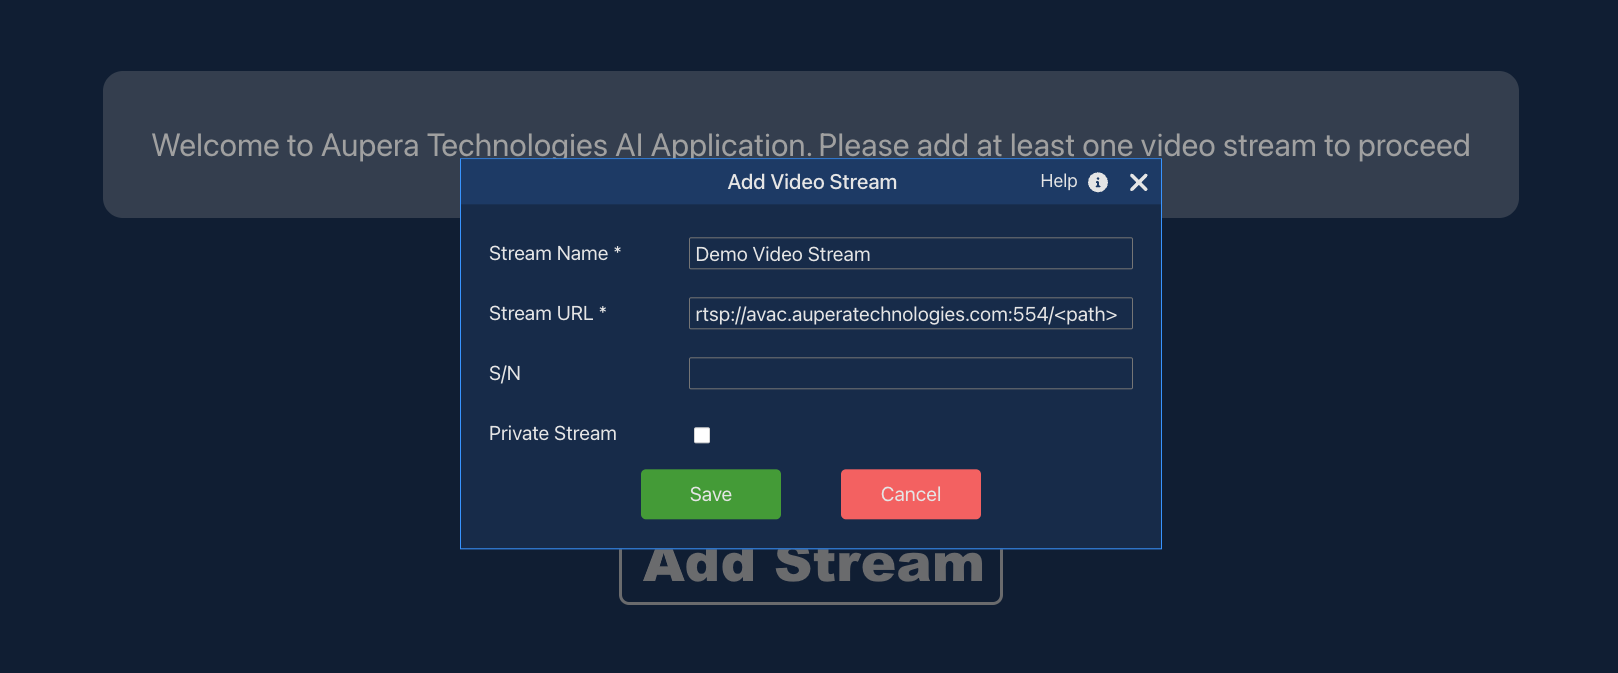
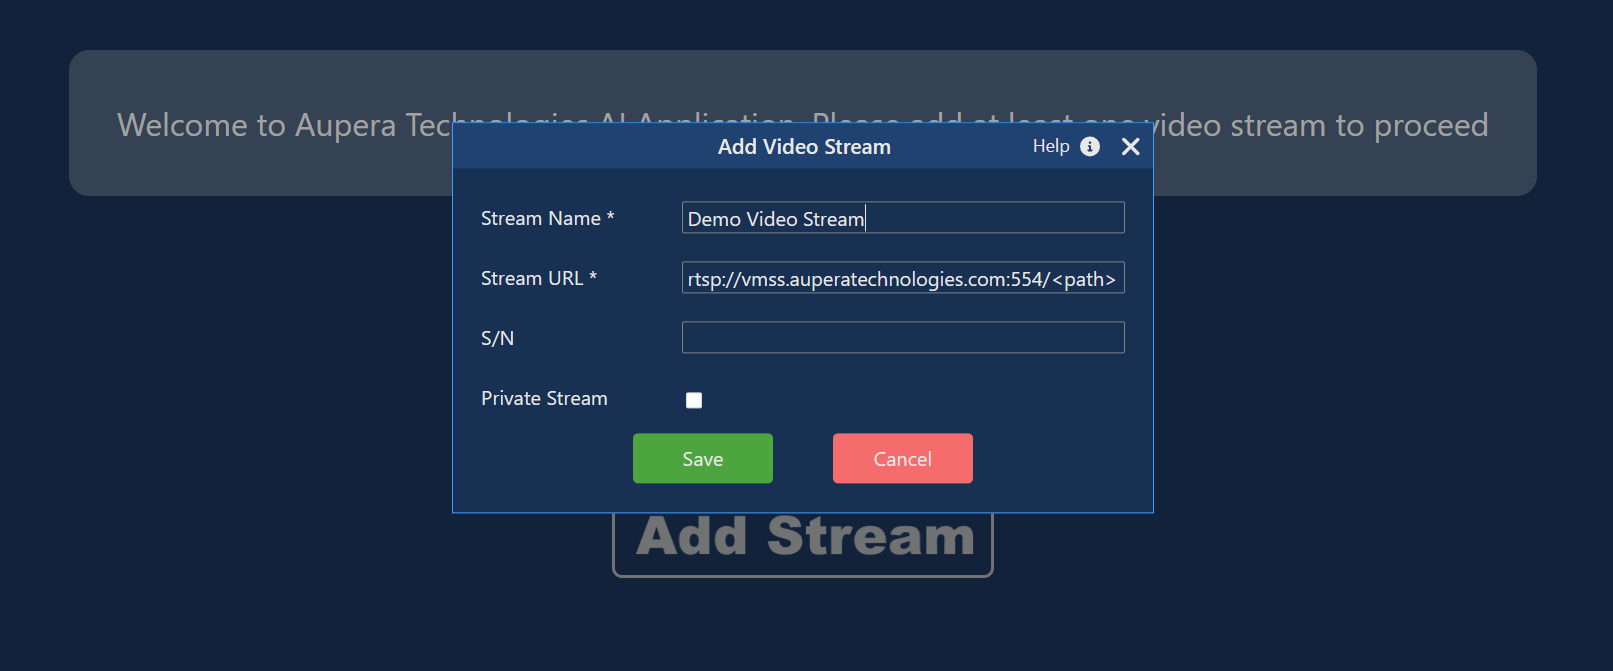
updated according to the comments

Changed region(s): [[0.031, 0.0596, 0.9609, 0.8644], [0.403, 0.8942, 0.62, 0.924]]

diff --git a/docs/avac/avac_user_guide.md b/docs/avac/avac_user_guide.md
@@ -10,16 +10,16 @@
 
 
 ### Table of Content
-1. [Signing Up for Aupera VMSS2.0 On Web Application](#1-signing-up-for-aupera-vmss20-on-web-applicationn)
-2. [Running Aupera's Proprietary Pipelines](#2-running-auperas-proprietary-pipelines)
-    1. [Running Aupera's Crowd Flow Application](#21-running-auperas-crowd-flow-application)
-    2. [Running Aupera's License Plate Recognition Applications](#22-running-auperas-license-plate-recognition-lpr-application)
-3. [Building Your Own (Custom) Pipelines](#3-building-your-own-custom-pipelines)
-4. [Model Zoo Evaluation](#4-model-zoo-evaluation)
-5. [Running Your Own (Custom) Pipeline](#5-running-your-own-custom-pipeline)
-6. [Using Video Streams to Add New Stream, Play Videos, or Change Snapshots](#6-using-video-streams-to-add-new-stream-play-videos-or-change-snapshots)
-7. [AI Hosts Page](#7-ai-hosts-page)
-8. [Useful Tools](#8-useful-tools)
+- [1 SIGNING UP FOR AUPERA VMSS2.0 ON WEB APPLICATION](#1-signing-up-for-aupera-vmss20-on-web-application)
+- [2 RUNNING AUPERA'S PROPRIETARY PIPELINES](#2-running-auperas-proprietary-pipelines)
+  - [2.1 Running Aupera’s Crowd Flow Application](#21-running-auperas-crowd-flow-application)
+  - [2.2 Running Aupera’s License Plate Recognition (LPR) Application](#22-running-auperas-license-plate-recognition-lpr-application)
+- [3 BUILDING YOUR OWN (CUSTOM) PIPELINES](#3-building-your-own-custom-pipelines)
+- [4 MODEL ZOO EVALUATION](#4-model-zoo-evaluation)
+- [5 RUNNING YOUR OWN (CUSTOM) PIPELINE](#5-running-your-own-custom-pipeline)
+- [6 USING VIDEO STREAMS TO ADD NEW STREAM, PLAY VIDEOS OR CHANGE SNAPSHOTS](#6-using-video-streams-to-add-new-stream-play-videos-or-change-snapshots)
+- [7 AI HOSTS PAGE](#7-ai-hosts-page)
+- [8 USEFUL TOOLS](#8-useful-tools)
 
 <br>
 <br>
@@ -49,9 +49,9 @@ Click the **Sign In** button on the top right corner of the page, and select **S
 
 After signing into VMSS2.0, you will be asked to add a video stream. Click **Add Stream** button to add video stream. Here are a few demo video streams you can try out:
 
-* rtsp://avac.auperatechnologies.com:554/car
-* rtsp://avac.auperatechnologies.com:554/crowd
-* rtsp://avac.auperatechnologies.com:554/retail
+* rtsp://vmss.auperatechnologies.com:554/car
+* rtsp://vmss.auperatechnologies.com:554/crowd
+* rtsp://vmss.auperatechnologies.com:554/retail
 
 Enter a **Stream URL** of your choice, give it an arbitrary and click **Save** to proceed.
 
@@ -128,7 +128,7 @@ In this section, we will describe the steps to run the Aupera’s Proprietary Pi
         <p ><strong>Figure 2.1.4. Aupera web application page – AI Tasks Hub Page, Application Selected</strong></p>
     </div>
 
-4. After Stream, Application, and AI Hosts are selected, the Crowd Flow Task Setup window will appear. (This is the right panel of the AI Tasks page extended, collapsing this window by clicking **Task List** or **Cancel** button. This will return to the previous page)
+4. After Stream, Application, and AI Hosts are selected, the Crowd Flow Task Setup window will appear. If you want to return to the AI Tasks page, click the **Cancel** button or the **Task List** bar on the left side of the page.
     <div align="center">
         <img 
             width="80%"
@@ -138,7 +138,7 @@ In this section, we will describe the steps to run the Aupera’s Proprietary Pi
         <p ><strong>Figure 2.1.5. Aupera web application page – crowd flow task creation</strong></p>
     </div>
 
-5. You need to draw a line to indicate a border for people crossing. When a person’s head crosses the line, IN/OUT count will reflect this event. These border lines may consist of up to a maximum of 14 segments, a less segmented line provides more accurate results. In and Out directions are determined by the way a line was drawn. If line is drawn from left to right, Movement from top to bottom will be registered as “IN”, bottom to top - “OUT”.
+1. You need to draw a line to indicate a border for people crossing. When a person’s head crosses the line, IN/OUT count will reflect this event. These border lines may consist of up to a maximum of 14 segments, a less segmented line provides more accurate results. In and Out directions are determined by the way a line was drawn. If line is drawn from left to right, Movement from top to bottom will be registered as “IN”, bottom to top - “OUT”.
     1. To start drawing, click the Draw Line button, the cursor will change to a cross.
     2. Left-click and hold the mouse button on the place where you would like to start the line.
     3. Drag the Line to the place where you want to finish the first segment, then release the mouse button.
@@ -157,13 +157,13 @@ In this section, we will describe the steps to run the Aupera’s Proprietary Pi
         <p ><strong>Figure 2.1.6. Aupera web application page – crowd flow task lines drawing example</strong></p>
     </div> 
 
-6. Changing Basic Parameters is not required to start the task, you can keep default values.
+2. Changing Basic Parameters is not required to start the task, you can keep default values.
     1. ***Direction*** – Count people going “In”, “Out” (“Entering” / “Exiting”) or both directions
     2. ***Start/Stop Time*** – counting will be started and stopped at the given time every day;
     3. It is recommended to set ***Sensitivity*** to the default value of 0.05;
 <br>
 
-7. **Advanced AI Parameters** can significantly affect the results for a particular task, it is recommended to not change those until recommended by Aupera.
+1. **Advanced AI Parameters** can significantly affect the results for a particular task, it is recommended to not change those until recommended by Aupera.
     <div align="center">
         <img 
             width="50%"
@@ -173,10 +173,10 @@ In this section, we will describe the steps to run the Aupera’s Proprietary Pi
         <p ><strong>Figure 2.1.7. Aupera web application page – crowd flow task advanced AI parameters</strong></p>
     </div>
 
-8. To start the task, click the Submit button. After that, a pop-up message will notify you that the task was successfully launched. If the pop-up message reports an error, try launching the task with default parameters or check the settings.
+2. To start the task, click the Submit button. After that, a pop-up message will notify you that the task was successfully launched. If the pop-up message reports an error, try launching the task with default parameters or check the settings.
 <br>
 
-9. If the task was launched, the task will appear in the task table on the left side of the screen
+1. If the task was launched, the task will appear in the task table on the left side of the screen
     <div align="center">
         <img 
             width="80%"
@@ -186,7 +186,7 @@ In this section, we will describe the steps to run the Aupera’s Proprietary Pi
         <p ><strong>Figure 2.1.8 Aupera web application page – AI Tasks Page, Crowd Flow task started</strong></p>
     </div>
 
-10. Select a task in the task list or click control button on the row of the task to show the Crowd Flow Control on the right side of the screen.
+2.  Select a task in the task list or click control button on the row of the task to show the Crowd Flow Control on the right side of the screen.
 
     <div align="center">
         <img 
@@ -210,7 +210,7 @@ In this section, we will describe the steps to run the Aupera’s Proprietary Pi
             <p ><strong>Figure 2.1.10. Aupera web application page – crowd flow task AI pipeline graph</strong></p>
         </div>
 
-11. To view results, click the result button on the specific task row on the table. The right panel will load the result of the specific task selected.
+3.  To view results, click the result button on the specific task row on the table. The right panel will load the result of the specific task selected.
     <div align="center">
         <img 
             width="80%"
@@ -276,8 +276,8 @@ In this section, we will describe the steps to run the Aupera’s Proprietary Pi
 6. LPR task can be started without changing any parameters, but in case you would like to change some, like enable the MLOps mode, click the “Change Task Parameters” button. Note that changing any parameters can significantly affect the results received. Some parameters which can be set up there are:
     1. **Switch Model By Time** – toggle this checkbox to set up the daytime interval, that can improve LP detection during a nighttime in some situations.
     2. **Auto Crop Detection Area** – automatically crop the frame to fit the Detection ROI you specified;
-    3. **MLOps Mode** – toggle this checkbox will send almost all raw MLOps data as results, thus allowing you to perform data labeling in the results section.
-    4. **Notification Server** and **MLOps Results Sever** parameters can specify urls to which LPR detection results and MLOps data will be sent correspondingly. Note, that if default values are changed, web client will not receive any results, so viewing, data labeling, and downloading could not be performed.
+    3. **MLOps Mode** – toggle this checkbox to collect raw detection data for monitoring accuracy of results and retraining purposes. Turning MLOps mode on will allow you to see the raw results and do data cleaning and labeling.
+    4. **Notification Server** and **MLOps Results Server** parameters can specify urls to which LPR detection results and MLOps data will be sent correspondingly. Note, that if default values are changed, web client will not receive any results, so viewing, data labeling, and downloading could not be performed.
 
         <div align="center">
             <img 
